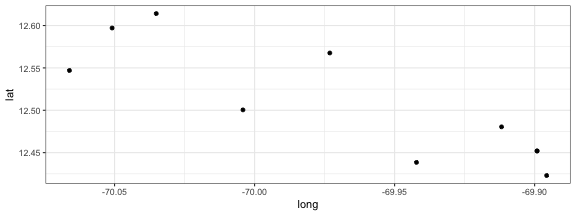
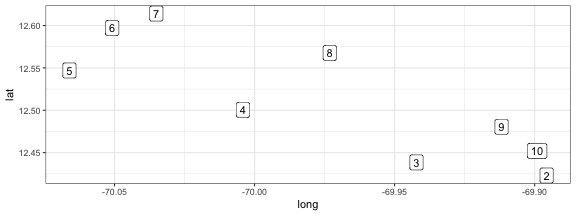
label aruba

diff --git a/6-data-viz.html b/6-data-viz.html
@@ -359,7 +359,7 @@ head(world)
 
 ```r
 world %&gt;% filter(region == "Aruba") %&gt;% 
-ggplot( aes(x = long, y = lat) ) + geom_point()
+ggplot( aes(x = long, y = lat, label = order) ) + geom_label()
 ```
 
 &lt;img src="/Users/judgelord/811/Figs/map-world-data-1.png" style="display: block; margin: auto;" /&gt;
